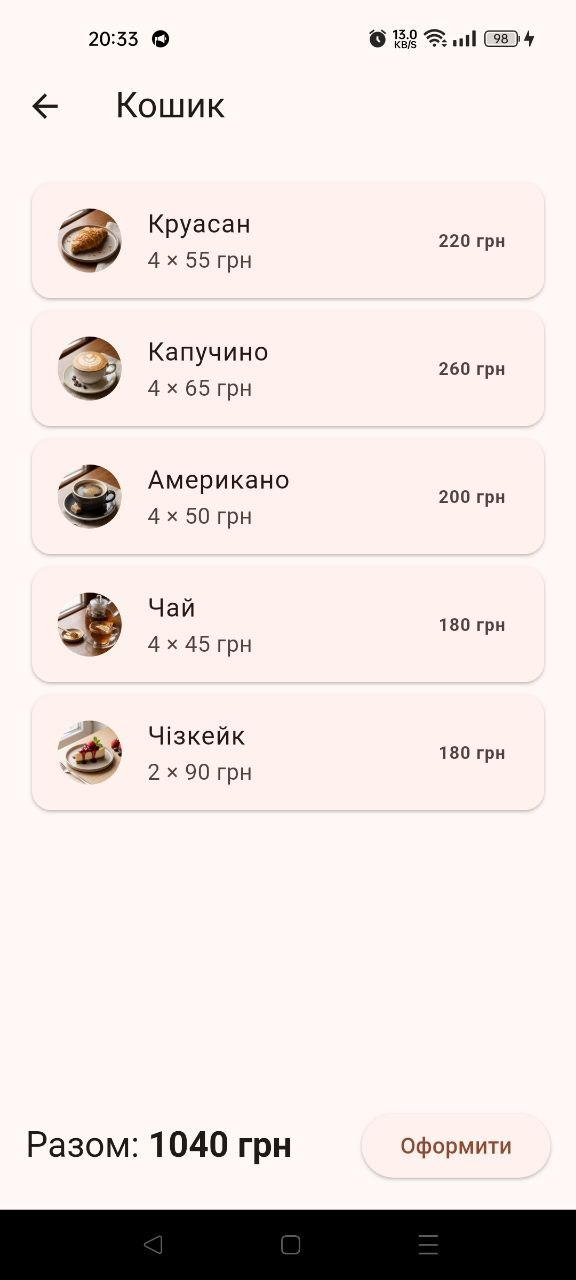
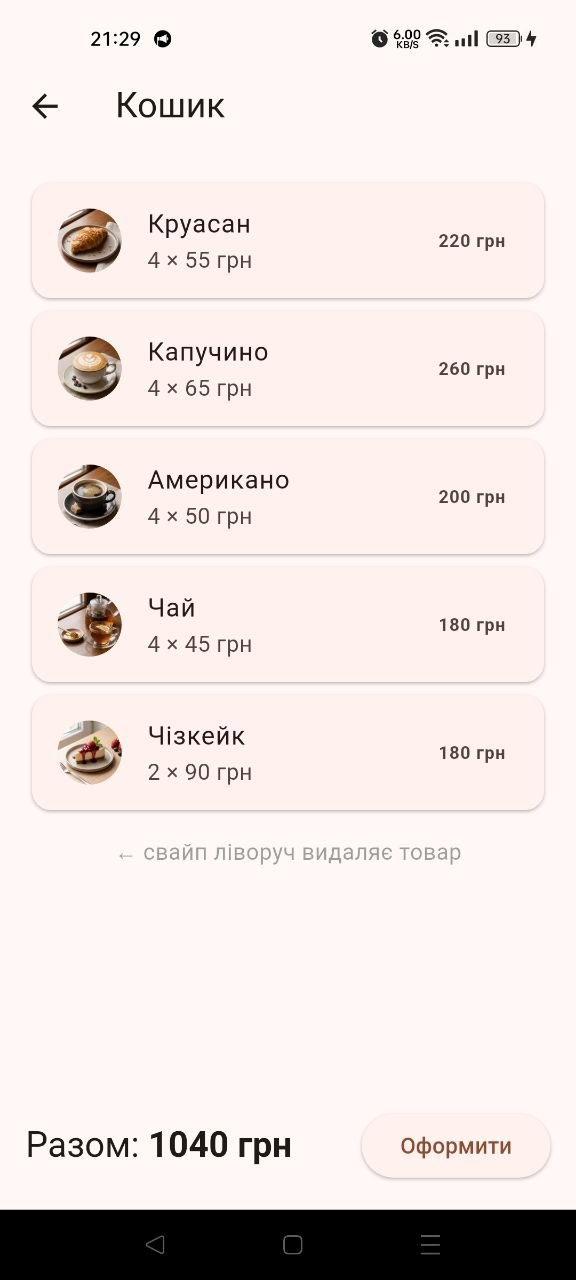
Додано підказку свайпу в кошику та оновлено скріншоти

diff --git a/lib/screens/cart_screen.dart b/lib/screens/cart_screen.dart
@@ -30,8 +30,19 @@ class _CartScreenState extends State<CartScreen> {
             )
           : ListView.builder(
               padding: const EdgeInsets.all(16),
-              itemCount: cart.items.length,
+              itemCount: cart.items.length + 1,
               itemBuilder: (context, index) {
+                if (index == cart.items.length) {
+                  return const Padding(
+                    padding: EdgeInsets.only(top: 12),
+                    child: Center(
+                      child: Text(
+                        '← свайп ліворуч видаляє товар',
+                        style: TextStyle(color: Colors.grey),
+                      ),
+                    ),
+                  );
+                }
                 final item = cart.items[index];
                 return Dismissible(
                   key: ValueKey(item.product.id),
